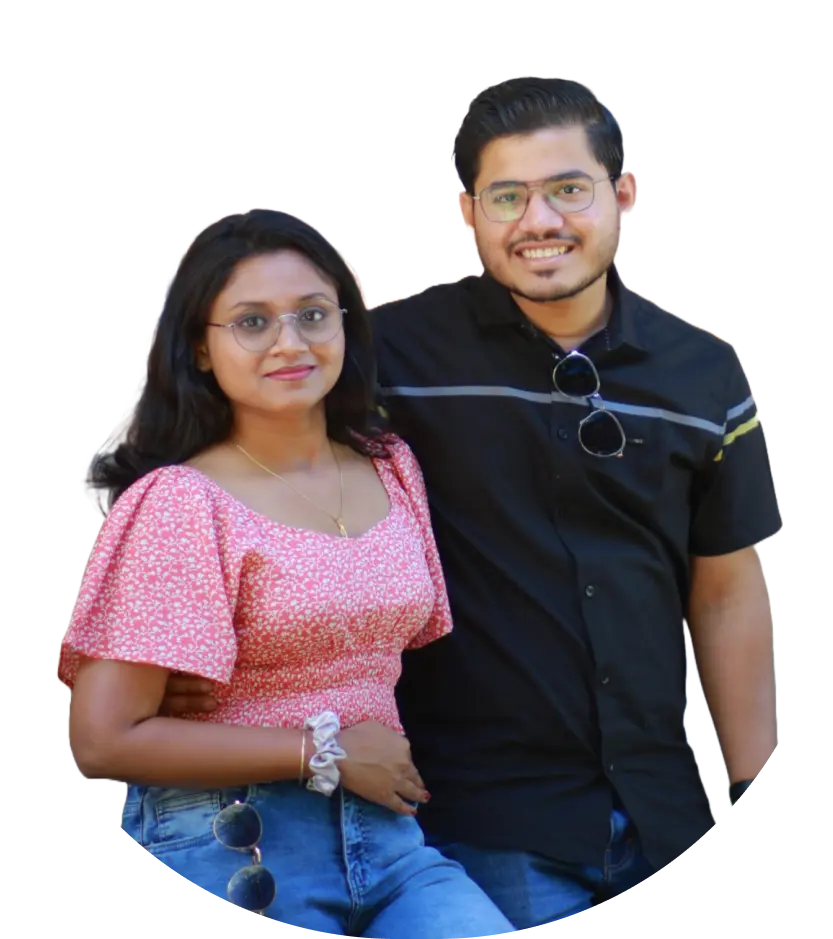
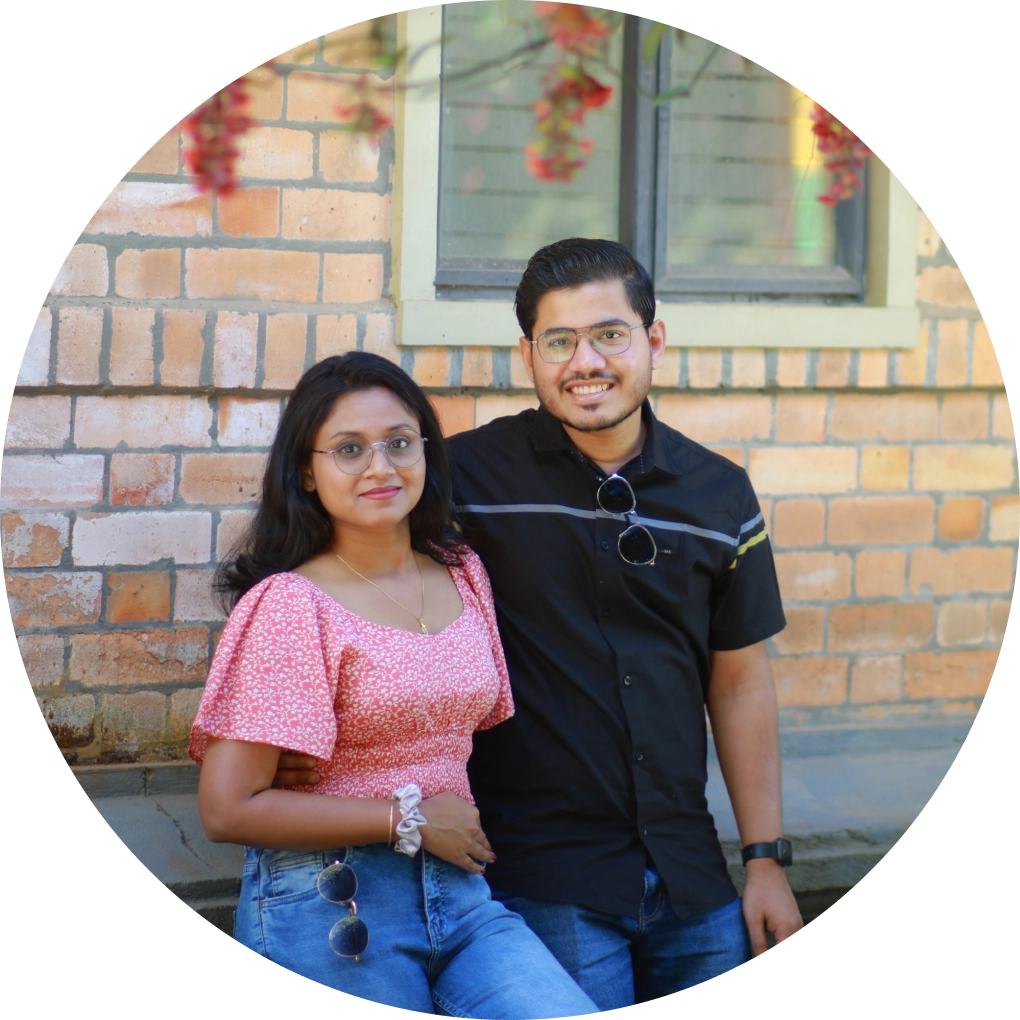
Image Udpdate

diff --git a/pages/index.vue b/pages/index.vue
@@ -272,10 +272,10 @@ export default {
 }
 
 .i-phone13141-avatar1 {
-  top: 83px;
-  left: 82px;
-  width: 225px;
-  height: 241px;
+  top: 69px;
+  left: 71px;
+  width: 258px;
+  height: 258px;
   position: absolute;
   border-radius: 99px;
 }
